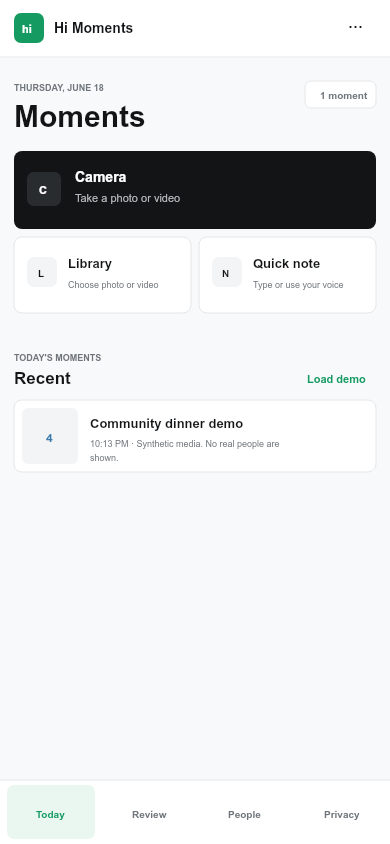
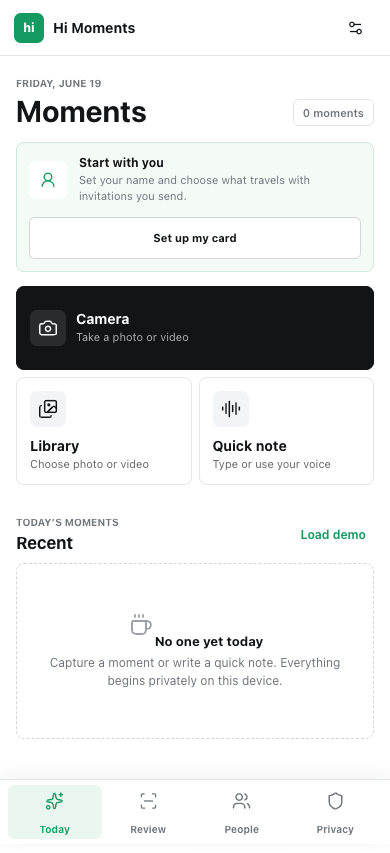
Add local sender card to Hi Moments

diff --git a/app.js b/app.js
@@ -3,6 +3,7 @@
 const DB_NAME = "hi-moments-v1";
 const DB_VERSION = 1;
 const stores = ["moments", "people", "settings"];
+const defaultMe = () => ({ name: "", headline: "", phone: "", email: "", x: "", website: "", linkedin: "", shareContacts: false });
 
 const state = {
   db: null,
@@ -14,6 +15,8 @@ const state = {
   peopleFilter: "all",
   mediaUrls: new Map(),
   settings: { retentionDays: 30, detectionEnabled: true },
+  me: defaultMe(),
+  pendingAfterMe: null,
 };
 
 const $ = (selector) => document.querySelector(selector);
@@ -82,6 +85,8 @@ async function loadState() {
   const settings = await dbAll("settings");
   const saved = settings.find((item) => item.id === "privacy");
   if (saved) state.settings = { ...state.settings, ...saved.value };
+  const savedMe = settings.find((item) => item.id === "me");
+  if (savedMe) state.me = { ...defaultMe(), ...savedMe.value };
   await applyRetention();
   rebuildMediaUrls();
 }
@@ -153,6 +158,7 @@ function renderToday() {
   $("#todayLabel").textContent = new Intl.DateTimeFormat(undefined, { weekday: "long", month: "long", day: "numeric" }).format(new Date());
   $("#todayCount").textContent = `${moments.length} moment${moments.length === 1 ? "" : "s"}`;
   const list = $("#momentList");
+  $("#meSetup").hidden = Boolean(state.me.name);
   list.innerHTML = "";
 
   if (!moments.length) {
@@ -533,9 +539,74 @@ function closeModal() {
   document.body.style.overflow = "";
 }
 
+function openMeModal() {
+  $("#meNameInput").value = state.me.name;
+  $("#meHeadlineInput").value = state.me.headline;
+  $("#mePhoneInput").value = state.me.phone;
+  $("#meEmailInput").value = state.me.email;
+  $("#meXInput").value = state.me.x ? `@${state.me.x.replace(/^@/, "")}` : "";
+  $("#meWebsiteInput").value = state.me.website;
+  $("#meLinkedinInput").value = state.me.linkedin;
+  $("#meShareCheck").checked = state.me.shareContacts;
+  openModal("meModal");
+  requestAnimationFrame(() => $("#meNameInput").focus());
+}
+
+async function saveMe() {
+  const name = $("#meNameInput").value.trim();
+  if (!name) {
+    toast("Add your name first.");
+    return;
+  }
+  state.me = {
+    name,
+    headline: $("#meHeadlineInput").value.trim(),
+    phone: $("#mePhoneInput").value.trim(),
+    email: $("#meEmailInput").value.trim(),
+    x: $("#meXInput").value.trim().replace(/^@/, ""),
+    website: $("#meWebsiteInput").value.trim(),
+    linkedin: $("#meLinkedinInput").value.trim(),
+    shareContacts: $("#meShareCheck").checked,
+  };
+  await dbPut("settings", { id: "me", value: state.me });
+  closeModal();
+  renderMe();
+  renderToday();
+  toast("Your card is ready.");
+  if (state.pendingAfterMe === "invite") {
+    state.pendingAfterMe = null;
+    await openInvite();
+  }
+}
+
+function renderMe() {
+  const me = state.me;
+  $("#identityStatus").textContent = me.name ? `${me.name} · local card` : "Set up your card";
+  $("#meSetup").hidden = Boolean(me.name);
+  $("#meCardAvatar").textContent = initials(me.name);
+  $("#meCardName").textContent = me.name || "Not set up";
+  $("#meCardSummary").textContent = me.headline || (me.name ? "Stored privately on this device." : "Add your name and optional links.");
+  $("#editMeButton").textContent = me.name ? "Edit" : "Set up";
+
+  const details = [];
+  if (me.phone) details.push(["phone", me.phone]);
+  if (me.email) details.push(["mail", me.email]);
+  if (me.x) details.push(["at-sign", `@${me.x}`]);
+  if (me.website) details.push(["globe-2", me.website]);
+  if (me.linkedin) details.push(["linkedin", me.linkedin]);
+  $("#meCardDetails").innerHTML = details.map(([icon, value]) => `<span><i data-lucide="${icon}"></i>${escapeHtml(value)}</span>`).join("");
+  refreshIcons();
+}
+
 async function openInvite() {
   const person = await saveSelectedPerson({ quiet: true });
   if (!person) return;
+  if (!state.me.name) {
+    state.pendingAfterMe = "invite";
+    openMeModal();
+    toast("Set up your card before sending an invitation.");
+    return;
+  }
   $("#inviteContactInput").value = "";
   $("#permissionCheck").checked = false;
   $("#confirmInviteButton").disabled = true;
@@ -551,7 +622,20 @@ async function confirmInvite() {
   if (!$("#permissionCheck").checked) return;
   const person = personForAppearance(selectedAppearance());
   if (!person) return;
-  const message = `${person.name}, I added a private note about meeting you. Join Hi if you would like to connect: https://hi.hirey.ai`;
+  const lines = [`Hi ${person.name}, it’s ${state.me.name}. I saved a private note about meeting you in Hi Moments.`];
+  if (state.me.headline) lines.push(state.me.headline);
+  if (state.me.shareContacts) {
+    const details = [
+      state.me.phone && `Phone: ${state.me.phone}`,
+      state.me.email && `Email: ${state.me.email}`,
+      state.me.x && `X: @${state.me.x}`,
+      state.me.website && `Web: ${state.me.website}`,
+      state.me.linkedin && `LinkedIn: ${state.me.linkedin}`,
+    ].filter(Boolean);
+    if (details.length) lines.push(details.join(" · "));
+  }
+  lines.push("If you’d like, connect with me on Hi: https://hi.hirey.ai");
+  const message = lines.join("\n");
   person.invitationState = "prepared";
   person.invitedAt = Date.now();
   person.updatedAt = Date.now();
@@ -625,6 +709,7 @@ function renderPeople() {
 function renderPrivacy() {
   $("#retentionSelect").value = String(state.settings.retentionDays);
   $("#detectionToggle").checked = state.settings.detectionEnabled;
+  renderMe();
 }
 
 async function savePrivacy() {
@@ -641,10 +726,14 @@ async function deleteAllData() {
   state.people = [];
   state.activeMomentId = null;
   state.selectedAppearanceId = null;
+  state.settings = { retentionDays: 30, detectionEnabled: true };
+  state.me = defaultMe();
+  state.pendingAfterMe = null;
   rebuildMediaUrls();
   renderToday();
   renderPeople();
   renderReview();
+  renderPrivacy();
   toast("All local data deleted.");
 }
 
@@ -674,7 +763,10 @@ function startDictation() {
 function wireEvents() {
   $$('[data-nav]').forEach((button) => button.addEventListener("click", () => switchView(button.dataset.nav)));
   $("#settingsButton").addEventListener("click", () => switchView("privacy"));
-  $("#identityButton").addEventListener("click", () => switchView("privacy"));
+  $("#identityButton").addEventListener("click", openMeModal);
+  $("#setupMeButton").addEventListener("click", openMeModal);
+  $("#editMeButton").addEventListener("click", openMeModal);
+  $("#saveMeButton").addEventListener("click", saveMe);
   $("#cameraButton").addEventListener("click", () => $("#cameraInput").click());
   $("#libraryButton").addEventListener("click", () => $("#libraryInput").click());
   $("#cameraInput").addEventListener("change", (event) => { if (event.target.files[0]) createMediaMoment(event.target.files[0]); event.target.value = ""; });
@@ -715,6 +807,7 @@ async function init() {
     renderReview();
     renderPeople();
     renderPrivacy();
+    renderMe();
     refreshIcons();
   } catch (error) {
     console.error(error);

diff --git a/index.html b/index.html
@@ -6,14 +6,14 @@
     <meta name="theme-color" content="#f8f9fa" />
     <meta name="description" content="A private, consent-first people diary for Hi." />
     <title>Hi Moments</title>
-    <link rel="stylesheet" href="styles.css?v=4" />
+    <link rel="stylesheet" href="styles.css?v=5" />
     <script src="vendor/lucide.min.js" defer></script>
     <script src="app.js" defer></script>
   </head>
   <body>
     <div class="app-shell">
       <header class="app-header">
-        <button class="identity-button" id="identityButton" type="button" aria-label="Open account">
+        <button class="identity-button" id="identityButton" type="button" aria-label="Edit your card">
           <span class="brand-mark">hi</span>
           <span>
             <strong>Hi Moments</strong>
@@ -37,6 +37,12 @@
             </div>
             <span class="count-pill" id="todayCount">0 moments</span>
           </div>
+
+          <section class="me-setup" id="meSetup">
+            <span class="me-setup-icon"><i data-lucide="user-round"></i></span>
+            <div><strong>Start with you</strong><p>Set your name and choose what travels with invitations you send.</p></div>
+            <button class="secondary-button" id="setupMeButton" type="button">Set up my card</button>
+          </section>
 
           <div class="capture-grid">
             <button class="capture-action primary" id="cameraButton" type="button">
@@ -191,7 +197,14 @@
             </section>
 
             <section class="settings-section">
-              <div class="settings-title"><i data-lucide="cloud"></i><div><h2>Hi connection</h2><p>Optional. Sign in only when you want to search or send a consented invitation.</p></div></div>
+              <div class="settings-title"><i data-lucide="user-round"></i><div><h2>Your card</h2><p>Your local identity for invitations and introductions.</p></div></div>
+              <div class="account-card">
+                <span class="person-avatar" id="meCardAvatar">?</span>
+                <div><strong id="meCardName">Not set up</strong><small id="meCardSummary">Add your name and optional links.</small></div>
+                <button class="secondary-button" id="editMeButton" type="button">Set up</button>
+              </div>
+              <div class="me-card-details" id="meCardDetails"></div>
+              <div class="settings-subtitle"><i data-lucide="cloud"></i><div><h3>Hi connection</h3><p>Optional. Sync your public profile when you are ready.</p></div></div>
               <div class="account-card" id="accountCard">
                 <span class="person-avatar">L</span>
                 <div><strong>Local mode</strong><small>No Hi data is connected.</small></div>
@@ -238,12 +251,31 @@
         <div class="modal-actions"><button class="secondary-button modal-close" type="button">Cancel</button><button class="primary-button" id="confirmInviteButton" type="button" disabled>Send invitation</button></div>
       </section>
 
+      <section class="modal me-modal" id="meModal" role="dialog" aria-modal="true" aria-labelledby="meModalTitle" hidden>
+        <div class="modal-head">
+          <div><p class="eyebrow">Local identity</p><h2 id="meModalTitle">Your card</h2></div>
+          <button class="icon-button modal-close" type="button" aria-label="Close"><i data-lucide="x"></i></button>
+        </div>
+        <p class="modal-copy">This is you. It stays on this device and is shared only when you send an invitation.</p>
+        <div class="profile-form-grid">
+          <label class="wide">Name<input id="meNameInput" type="text" autocomplete="name" required placeholder="Your name" /></label>
+          <label class="wide">Headline <small>optional</small><input id="meHeadlineInput" type="text" placeholder="What should people remember?" /></label>
+          <label>Phone <small>optional</small><input id="mePhoneInput" type="tel" inputmode="tel" autocomplete="tel" placeholder="[phone redacted]" /></label>
+          <label>Email <small>optional</small><input id="meEmailInput" type="email" inputmode="email" autocomplete="email" placeholder="[email redacted]" /></label>
+          <label>X / Twitter <small>optional</small><input id="meXInput" type="text" placeholder="@handle" /></label>
+          <label>Website <small>optional</small><input id="meWebsiteInput" type="text" inputmode="url" placeholder="your.site" /></label>
+          <label class="wide">LinkedIn <small>optional</small><input id="meLinkedinInput" type="text" inputmode="url" placeholder="linkedin.com/in/you" /></label>
+        </div>
+        <label class="share-setting"><input id="meShareCheck" type="checkbox" /><span><strong>Share contact details</strong><small>Include the optional fields above when you send an invitation.</small></span></label>
+        <div class="modal-actions"><button class="secondary-button modal-close" type="button">Cancel</button><button class="primary-button" id="saveMeButton" type="button">Save my card</button></div>
+      </section>
+
       <section class="modal" id="connectModal" role="dialog" aria-modal="true" aria-labelledby="connectModalTitle" hidden>
         <div class="modal-head">
           <div><p class="eyebrow">Optional cloud layer</p><h2 id="connectModalTitle">Connect to Hi</h2></div>
           <button class="icon-button modal-close" type="button" aria-label="Close"><i data-lucide="x"></i></button>
         </div>
-        <p class="modal-copy">This prototype keeps your diary local. A production connection will use short-lived browser sessions for profile search and consented invitations.</p>
+        <p class="modal-copy">This prototype keeps everything local. Connecting Hi can sync the public fields from Your card and enable owner search, consent and pairings.</p>
         <div class="connect-options">
           <button type="button"><i data-lucide="mail"></i><span><strong>Email</strong><small>One-time verification code</small></span></button>
           <button type="button"><i data-lucide="smartphone"></i><span><strong>Phone</strong><small>One-time verification code</small></span></button>

diff --git a/styles.css b/styles.css
@@ -109,6 +109,21 @@ p { line-height: 1.5; }
 }
 
 .capture-grid { display: grid; grid-template-columns: repeat(3, 1fr); gap: 10px; }
+.me-setup {
+  display: grid;
+  grid-template-columns: 38px 1fr auto;
+  align-items: center;
+  gap: 12px;
+  margin: -8px 0 18px;
+  padding: 12px;
+  border: 1px solid #cfe8dc;
+  border-radius: var(--radius);
+  background: #f4fbf7;
+}
+.me-setup-icon { display: grid; place-items: center; width: 38px; height: 38px; border-radius: 7px; color: var(--accent); background: white; }
+.me-setup-icon svg { width: 18px; }
+.me-setup strong { display: block; font-size: 12px; }
+.me-setup p { margin: 2px 0 0; color: var(--muted); font-size: 11px; }
 .capture-action {
   display: flex;
   align-items: center;
@@ -240,6 +255,15 @@ button:disabled { opacity: 0.42; cursor: not-allowed; }
 .setting-row input[type="checkbox"] { width: 36px; height: 19px; accent-color: var(--accent); }
 .settings-section > .danger-button { margin-top: 16px; }
 .account-card { display: grid; grid-template-columns: 38px 1fr auto; align-items: center; gap: 9px; padding: 15px 0; border-bottom: 1px solid var(--line); }
+.settings-subtitle { display: flex; gap: 11px; margin-top: 24px; padding: 15px 0 12px; border-top: 1px solid var(--ink); border-bottom: 1px solid var(--line); }
+.settings-subtitle > svg { width: 18px; color: var(--accent); }
+.settings-subtitle h3, .settings-subtitle p { margin: 0; }
+.settings-subtitle h3 { font-size: 13px; }
+.settings-subtitle p { margin-top: 3px; color: var(--muted); font-size: 11px; }
+.me-card-details { display: flex; flex-wrap: wrap; gap: 6px; padding-top: 10px; }
+.me-card-details:empty { display: none; }
+.me-card-details span { display: inline-flex; align-items: center; gap: 5px; max-width: 100%; padding: 5px 7px; border-radius: 5px; color: #4f565b; background: var(--surface-subtle); font-size: 10px; overflow-wrap: anywhere; }
+.me-card-details svg { flex: 0 0 auto; width: 12px; }
 .principles { margin-top: 14px; }
 .principles p { display: flex; align-items: center; gap: 8px; margin: 9px 0; color: #464b50; font-size: 11px; }
 .principles svg { width: 14px; color: var(--accent); }
@@ -270,6 +294,14 @@ button:disabled { opacity: 0.42; cursor: not-allowed; }
 .modal-head { display: flex; justify-content: space-between; align-items: start; margin-bottom: 16px; }
 .modal-head h2 { margin-top: 2px; }
 .modal label { display: block; margin-top: 12px; }
+.me-modal { width: min(560px, 100%); }
+.profile-form-grid { display: grid; grid-template-columns: 1fr 1fr; gap: 0 10px; }
+.profile-form-grid .wide { grid-column: 1 / -1; }
+.profile-form-grid label > small { color: var(--faint); font-weight: 400; }
+.share-setting { display: flex !important; align-items: flex-start; gap: 9px; margin-top: 16px !important; padding: 11px; border: 1px solid var(--line); border-radius: 6px; background: var(--surface-subtle); }
+.share-setting input { flex: 0 0 auto; width: 17px; height: 17px; margin: 1px 0 0; accent-color: var(--accent); }
+.share-setting strong, .share-setting small { display: block; }
+.share-setting small { margin-top: 2px; color: var(--muted); font-weight: 400; }
 .modal-copy { margin: 0; padding: 11px; border-left: 2px solid var(--warning); color: var(--muted); background: #fffaf2; font-size: 11px; }
 .voice-button { display: flex; align-items: center; gap: 7px; width: 100%; min-height: 39px; margin-top: 11px; border: 1px solid var(--line); border-radius: 6px; background: var(--surface-subtle); cursor: pointer; }
 .voice-button svg { width: 15px; }
@@ -318,6 +350,8 @@ button:disabled { opacity: 0.42; cursor: not-allowed; }
   .compact-heading { display: block; }
   .compact-heading > button { min-height: 44px; margin-top: 13px; }
   .capture-grid { grid-template-columns: 1fr 1fr; gap: 7px; }
+  .me-setup { grid-template-columns: 38px 1fr; margin: -3px 0 14px; }
+  .me-setup .secondary-button { grid-column: 1 / -1; min-height: 42px; }
   .capture-action {
     min-height: 108px;
     padding: 13px;
@@ -431,6 +465,8 @@ button:disabled { opacity: 0.42; cursor: not-allowed; }
   .setting-row select { min-width: 124px; font-size: 14px; }
   .account-card { grid-template-columns: 38px 1fr; }
   .account-card button { grid-column: 1 / -1; width: 100%; min-height: 44px; }
+  .profile-form-grid { grid-template-columns: 1fr; }
+  .profile-form-grid .wide { grid-column: auto; }
   .principles p { align-items: flex-start; line-height: 1.4; }
   .bottom-nav {
     left: 0;
@@ -458,6 +494,7 @@ button:disabled { opacity: 0.42; cursor: not-allowed; }
   .modal::before { content: ""; position: absolute; top: 8px; left: 50%; width: 36px; height: 4px; transform: translateX(-50%); border-radius: 999px; background: var(--line-strong); }
   .modal-actions { position: sticky; bottom: 0; padding-top: 8px; background: var(--surface); }
   .modal-actions button { min-height: 44px; }
+  .me-modal .modal-actions { display: grid; grid-template-columns: 0.8fr 1.2fr; }
 }
 
 @media (prefers-reduced-motion: reduce) {

diff --git a/README.md b/README.md
@@ -11,6 +11,7 @@ Hi Moments is a private, consent-first people diary for Hirey Hi. It combines fa
 - Existing Hi profiles are linked only after a user searches by text and confirms the result.
 - Unknown people remain private until they explicitly claim a profile.
 - The invitation gate requires the recorder to attest that the person knows and agreed to receive it.
+- Your card defines who is sending an invitation, stays local by default, and shares optional contact details only with an explicit toggle.
 
 ## Current prototype
 
@@ -24,6 +25,7 @@ The static web prototype includes:
 - Local people diary and lifecycle states.
 - Text-based Hi profile search with manual confirmation.
 - Consent-gated invitation preparation.
+- A local sender card for name, headline, phone, email, X, website, and LinkedIn, ready for optional Hi profile sync.
 - Media retention controls and one-click local deletion.
 
 Hi authentication and the final server-issued invitation/claim token are intentionally represented as production integration boundaries. The prototype does not pretend a local link is a completed claim.